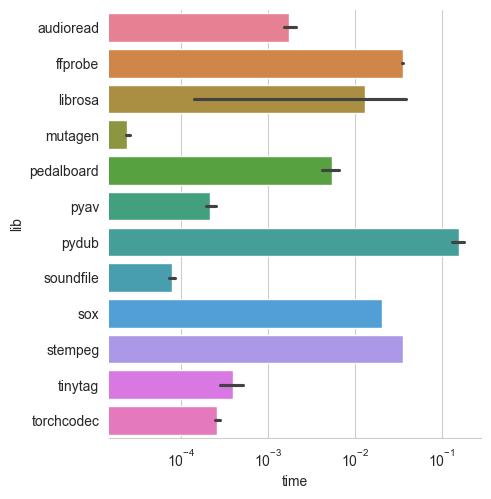
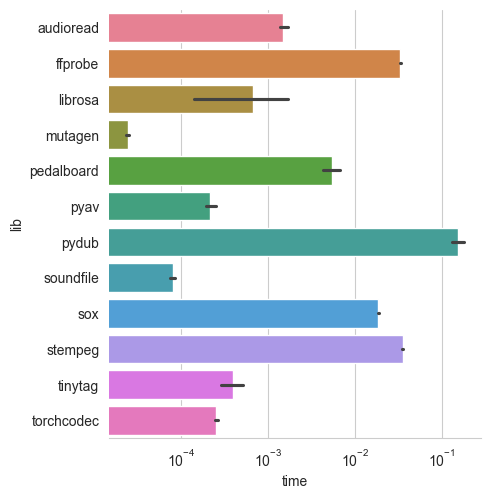
Add tests for libraries

diff --git a/tests/conftest.py b/tests/conftest.py
@@ -1,0 +1,75 @@
+import tomllib
+from dataclasses import dataclass
+from pathlib import Path
+
+import pytest
+
+from src.constants import PROJECT_DIR
+from src.loaders import LOADERS, LoaderSpec
+
+
+FIXTURES_DIR: Path = PROJECT_DIR / "tests" / "fixtures"
+AUDIO_DIR: Path = FIXTURES_DIR / "audio"
+MANIFEST_PATH: Path = FIXTURES_DIR / "manifest.toml"
+
+# Absolute tolerance for the duration assertion, per file extension.
+# Lossy/frame-based formats round to frame boundaries, so libs disagree by
+# tens of milliseconds. Lossless formats are sample-exact.
+DURATION_ABS_TOL: dict[str, float] = {
+    "opus": 0.05,
+    "mp3": 0.05,
+    "aac": 0.05,
+    "m4a": 0.05,
+    "ogg": 0.05,
+    "wav": 1e-6,
+    "flac": 1e-6,
+    "aiff": 1e-6,
+}
+
+
+@dataclass(frozen=True)
+class AudioFixture:
+    path: Path
+    duration: float
+    sample_rate: int
+    ext: str
+
+
+def _load_manifest() -> list[AudioFixture]:
+    if not MANIFEST_PATH.exists():
+        return []
+
+    with MANIFEST_PATH.open("rb") as f:
+        data = tomllib.load(f)
+
+    fixtures: list[AudioFixture] = []
+    for entry in data.get("fixtures", []):
+        path = AUDIO_DIR / entry["file"]
+        fixtures.append(
+            AudioFixture(
+                path=path,
+                duration=float(entry["duration"]),
+                sample_rate=int(entry["sample_rate"]),
+                ext=path.suffix.lstrip("."),
+            )
+        )
+    return fixtures
+
+
[email redacted](
+    params=list(LOADERS.values()),
+    ids=lambda spec: spec.name,
+)
+def loader_spec(request: pytest.FixtureRequest) -> LoaderSpec:
+    return request.param
+
+
[email redacted](
+    params=_load_manifest(),
+    ids=lambda fx: fx.path.name,
+)
+def audio_fixture(request: pytest.FixtureRequest) -> AudioFixture:
+    fx: AudioFixture = request.param
+    if not fx.path.exists():
+        pytest.skip(f"fixture file missing: {fx.path}")
+    return fx

diff --git a/src/loaders/__init__.py b/src/loaders/__init__.py
@@ -1,35 +1,30 @@
-from .audioread import get_info as info_audioread
-from .ffprobe import get_info as info_ffprobe
-from .librosa import get_info as info_librosa
-from .miniaudio import get_info as info_miniaudio
-from .mutagen import get_info as info_mutagen
-from .pedalboard import get_info as info_pedalboard
-from .pyav import get_info as info_pyav
-from .pydub import get_info as info_pydub
-from .pyogg import get_info as info_pyogg
-from .scipy import get_info as info_scipy, get_info_mmap as info_scipy_mmap
-from .soundfile import get_info as info_soundfile
-from .sox import get_info as info_sox
-from .stempeg import get_info as info_stempeg
-from .tinytag import get_info as info_tinytag
-from .torchcodec import get_info as info_torchcodec
+import importlib
+import pkgutil
+from dataclasses import dataclass
+from pathlib import Path
+from typing import Callable
 
 
-__all__ = [
-    "info_audioread",
-    "info_ffprobe",
-    "info_librosa",
-    "info_miniaudio",
-    "info_mutagen",
-    "info_pedalboard",
-    "info_pyav",
-    "info_pydub",
-    "info_pyogg",
-    "info_scipy",
-    "info_scipy_mmap",
-    "info_soundfile",
-    "info_sox",
-    "info_stempeg",
-    "info_tinytag",
-    "info_torchcodec",
-]
+@dataclass(frozen=True)
+class LoaderSpec:
+    name: str
+    extensions: frozenset[str]
+    get_info: Callable[[Path], tuple[float, float]]
+
+
+def _discover() -> dict[str, LoaderSpec]:
+    out: dict[str, LoaderSpec] = {}
+    for mod_info in pkgutil.iter_modules(__path__):
+        if mod_info.name.startswith("_"):
+            continue
+        mod = importlib.import_module(f"{__name__}.{mod_info.name}")
+        name = getattr(mod, "NAME", mod_info.name)
+        out[name] = LoaderSpec(
+            name=name,
+            extensions=frozenset(getattr(mod, "SUPPORTED_EXTENSIONS", frozenset())),
+            get_info=mod.get_info,
+        )
+    return out
+
+
+LOADERS: dict[str, LoaderSpec] = _discover()

diff --git a/benchmark.py b/benchmark.py
@@ -5,14 +5,13 @@ import pandas as pd
 from cyclopts import App
 from loguru import logger
 
-from src import loaders
 from src.constants import (
     AUDIO_DIR,
     DATAFRAME_COLUMNS,
     DEFAULT_AUDIO_EXTENSION,
-    LIB_NAMES,
     RESULTS_DIR,
 )
+from src.loaders import LOADERS, LoaderSpec
 from src.utils import DataFrameWriter, list_files, plot_results
 
 app = App()
@@ -22,16 +21,15 @@ class AudioFolder:
     def __init__(
         self,
         root: str,
+        loader: LoaderSpec,
         extension: str = "wav",
-        lib: str = "librosa",
     ) -> None:
         self.root = os.path.expanduser(root)
-        self.data = []
         self.audio_files = list_files(src_dir=self.root, src_ext=extension)
-        self.loader_function = getattr(loaders, lib)
+        self.loader = loader
 
     def __getitem__(self, index: int) -> tuple[float, float]:
-        return self.loader_function(self.audio_files[index])
+        return self.loader.get_info(self.audio_files[index])
 
     def __len__(self) -> int:
         return len(self.audio_files)
@@ -44,15 +42,19 @@ def run(
     """Execute benchmark for a run, printing logs to stdout"""
     store = DataFrameWriter(columns=DATAFRAME_COLUMNS)
 
-    for lib in LIB_NAMES:
-        logger.info("Testing: %s" % lib)
+    for loader in LOADERS.values():
+        if ext not in loader.extensions:
+            logger.info("Skipping %s (does not support .%s)" % (loader.name, ext))
+            continue
+
+        logger.info("Testing: %s" % loader.name)
 
         for root, dirs, _ in sorted(os.walk(AUDIO_DIR)):
             for audio_dir in dirs:
                 duration = int(audio_dir)
                 dataset = AudioFolder(
                     os.path.join(root, audio_dir),
-                    lib="info_" + lib,
+                    loader=loader,
                     extension=ext,
                 )
 
@@ -60,13 +62,13 @@ def run(
 
                 for _ in range(3):
                     for fp in dataset.audio_files:
-                        _ = dataset.loader_function(fp)
+                        _ = dataset.loader.get_info(fp)
 
                 end = time.monotonic()
                 store.append(
                     row=dict(
                         ext=ext,
-                        lib=lib,
+                        lib=loader.name,
                         duration=duration,
                         time=float(end - start) / (len(dataset) * 3),
                     ),

diff --git a/tests/test_loaders.py b/tests/test_loaders.py
@@ -1,0 +1,20 @@
+import pytest
+
+from src.loaders import LoaderSpec
+from tests.conftest import DURATION_ABS_TOL, AudioFixture
+
+
+def test_duration_and_sample_rate(
+    loader_spec: LoaderSpec,
+    audio_fixture: AudioFixture,
+) -> None:
+    if audio_fixture.ext not in loader_spec.extensions:
+        pytest.skip(f"{loader_spec.name} does not support .{audio_fixture.ext}")
+
+    duration, sample_rate = loader_spec.get_info(audio_fixture.path)
+
+    assert sample_rate == audio_fixture.sample_rate
+    assert duration == pytest.approx(
+        audio_fixture.duration,
+        abs=DURATION_ABS_TOL[audio_fixture.ext],
+    )

diff --git a/src/constants.py b/src/constants.py
@@ -7,21 +7,6 @@ RESULTS_DIR: Path = PROJECT_DIR / "data" / "results"
 
 DEFAULT_AUDIO_EXTENSION: str = "opus"
 
-LIB_NAMES: list[str] = [
-    "audioread",
-    "ffprobe",
-    "librosa",
-    "mutagen",
-    "pedalboard",
-    "pyav",
-    "pydub",
-    "soundfile",
-    "sox",
-    "stempeg",
-    "tinytag",
-    "torchcodec",
-]
-
 DATAFRAME_COLUMNS: list[str] = [
     "ext",
     "lib",

diff --git a/src/loaders/audioread.py b/src/loaders/audioread.py
@@ -3,6 +3,10 @@ from pathlib import Path
 import audioread
 
 
+NAME: str = "audioread"
+SUPPORTED_EXTENSIONS: frozenset[str] = frozenset({"opus"})
+
+
 def get_info(path: Path) -> tuple[float, float]:
     duration, sample_rate = 0.0, 0.0
 

diff --git a/src/loaders/ffprobe.py b/src/loaders/ffprobe.py
@@ -3,6 +3,10 @@ import subprocess
 from pathlib import Path
 
 
+NAME: str = "ffprobe"
+SUPPORTED_EXTENSIONS: frozenset[str] = frozenset({"opus"})
+
+
 def get_info(path: Path) -> tuple[float, float]:
     """Return duration in seconds and sample rate. Raises on failure."""
     cmd = [

diff --git a/src/loaders/librosa.py b/src/loaders/librosa.py
@@ -3,6 +3,10 @@ from pathlib import Path
 import librosa
 
 
+NAME: str = "librosa"
+SUPPORTED_EXTENSIONS: frozenset[str] = frozenset({"opus"})
+
+
 def get_info(path: Path) -> tuple[float, float]:
     duration = librosa.get_duration(path=path)
     sample_rate = librosa.get_samplerate(path=str(path))

diff --git a/src/loaders/miniaudio.py b/src/loaders/miniaudio.py
@@ -3,6 +3,10 @@ from pathlib import Path
 import miniaudio
 
 
+NAME: str = "miniaudio"
+SUPPORTED_EXTENSIONS: frozenset[str] = frozenset({})
+
+
 def get_info(path: Path) -> tuple[float, float]:
     info = miniaudio.get_file_info(filename=str(path))
     return info.duration, info.sample_rate

diff --git a/src/loaders/mutagen.py b/src/loaders/mutagen.py
@@ -9,6 +9,10 @@ from mutagen.oggopus import (
 from mutagen._file import StreamInfo
 
 
+NAME: str = "mutagen"
+SUPPORTED_EXTENSIONS: frozenset[str] = frozenset({"opus"})
+
+
 class OggOpusInfo(StreamInfo):
     length = 0.0
     channels = 0

diff --git a/src/loaders/pedalboard.py b/src/loaders/pedalboard.py
@@ -3,6 +3,10 @@ from pathlib import Path
 import pedalboard
 
 
+NAME: str = "pedalboard"
+SUPPORTED_EXTENSIONS: frozenset[str] = frozenset({"opus"})
+
+
 def get_info(path: Path) -> tuple[float, float]:
     with pedalboard.io.AudioFile(filename=str(path)) as f:
         return f.duration, f.samplerate

diff --git a/src/loaders/pyav.py b/src/loaders/pyav.py
@@ -3,6 +3,10 @@ from pathlib import Path
 import av
 
 
+NAME: str = "pyav"
+SUPPORTED_EXTENSIONS: frozenset[str] = frozenset({"opus"})
+
+
 def get_info(path: Path) -> tuple[float, float]:
     container = av.open(file=path)
     stream = container.streams.audio[0]